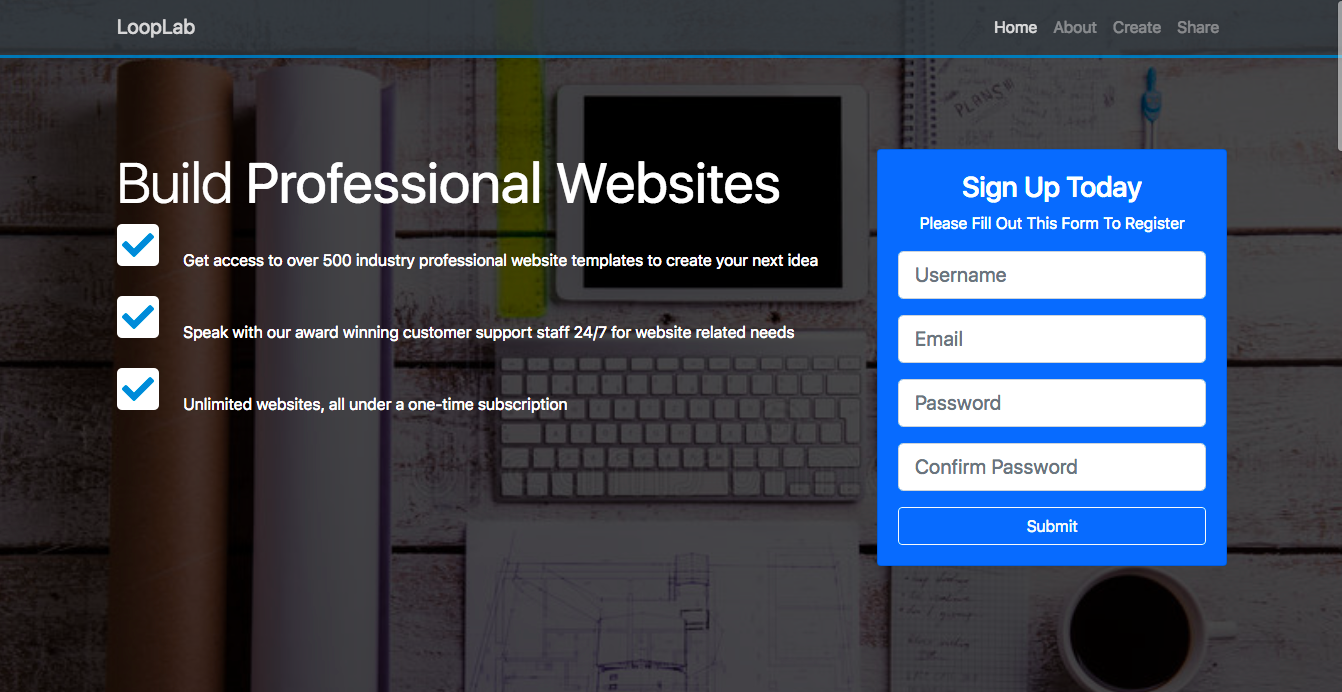
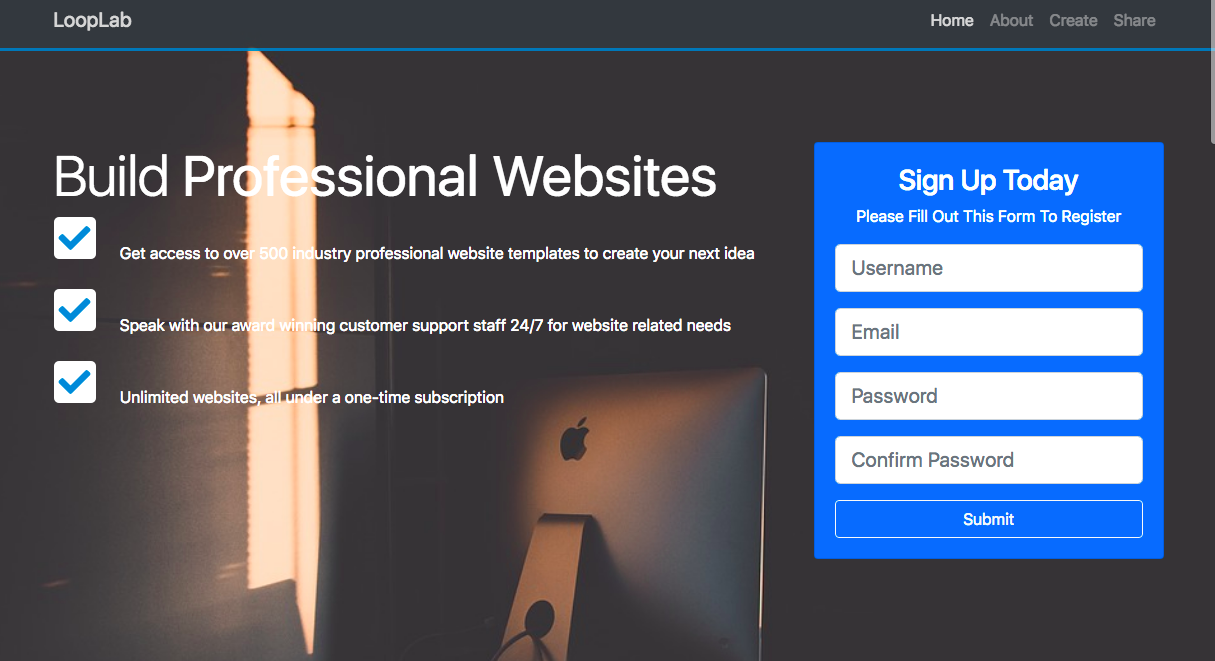
making home page more responsive, cchanged home image

diff --git a/index.html b/index.html
@@ -36,7 +36,7 @@
     </nav>
 
     <header id="home-section">
-      <div class="dark-overlay">
+      <div>
         <div class="home-inner container">
           <div class="row">
             <div class="col-lg-8 d-lg-block">
